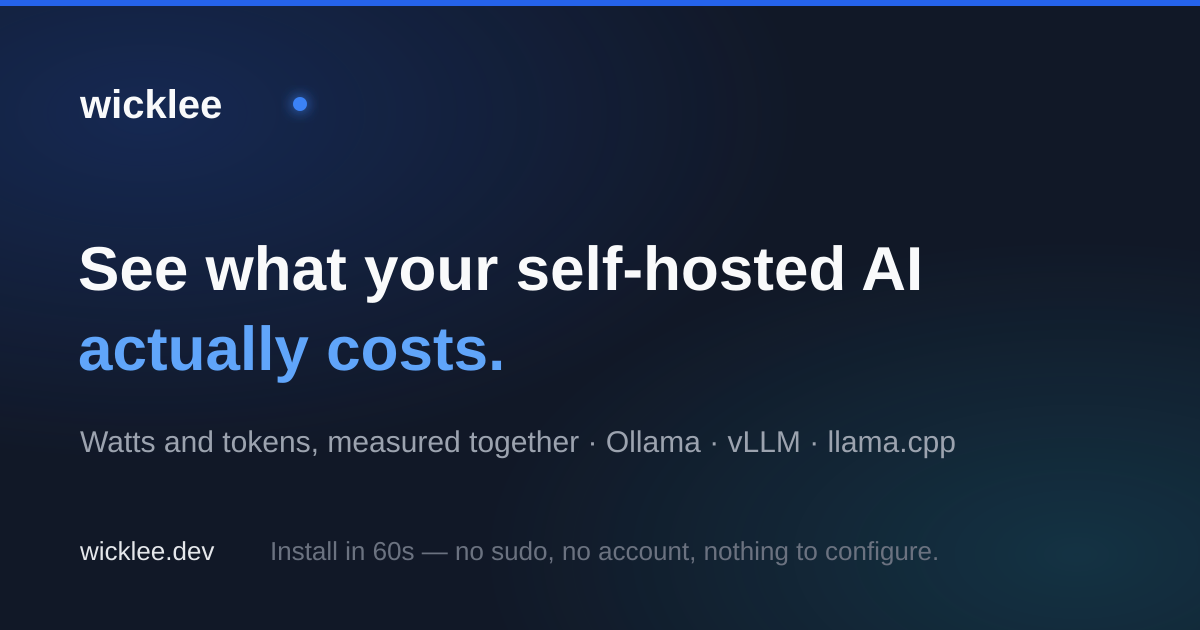
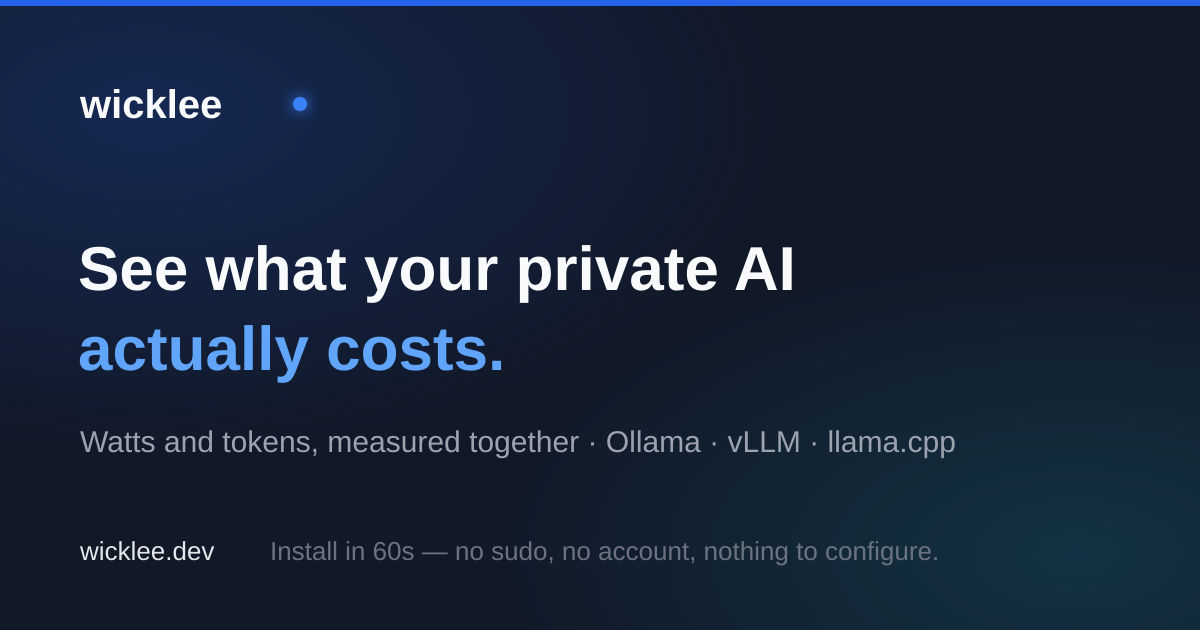
copy: "private AI" on buyer-facing surfaces; fix retired tier in the offer
Two changes, plus a guard so neither can silently regress.

1. "local AI" / "self-hosted AI" -> "private AI" for the buyer

The last pass swapped "local AI" for "self-hosted AI", which fixed the
wrong half. "Local" reads as a machine under a desk; "self-hosted"
still carries homelab connotation and was doing double duty in our own
copy. Meanwhile the major infrastructure vendors have standardised on
"private AI" for exactly this deployment model, so enterprise buyers
are already being taught the phrase by their own suppliers.

The split is now by object, which removes a real ambiguity:

  private AI   - what the customer runs: their models on their GPUs,
                 on-prem, private cloud, colo, or rented
  self-hosted  - how Wicklee itself is deployed (self-hosted control
                 plane, Enterprise). Kept in docs and install copy.
  local AI     - retained only where it is coined or community-native:
                 the "MPG for local AI" tagline, blog copy, the wes.ts
                 doc comment, and the published blog slug.

Changed: site title / og:title / twitter:title, landing eyebrow and H1,
pricing subhead, design-partner hero and framing, trust CTA, llms.txt
descriptor, the prerendered mirror, and the OG card (regenerated).

The title was missed entirely last time. Body copy changed, <title>
did not — and <title> is what Google and a Slack unfurl actually show,
so the most-seen string on the site was the one still saying "Local AI
[…]

Changed region(s): [[0.4317, 0.3921, 0.7708, 0.4825]]

diff --git a/src/utils/__tests__/pageMeta.test.ts b/src/utils/__tests__/pageMeta.test.ts
@@ -1,0 +1,71 @@
+/**
+ * The site title lives in three places that cannot import each other:
+ *
+ *   - index.html          <title>, og:title, twitter:title (static, pre-bundle)
+ *   - pageMeta.ts         DEFAULT_TITLE (what the SPA sets on route change)
+ *   - BlogListing.tsx     restores the default on unmount — now imports it
+ *
+ * index.html is plain HTML and can't import the constant, so this test is the
+ * link between them. Without it the two drift silently and only the version in
+ * index.html is ever seen by Google or a Slack unfurl — which is exactly how
+ * "Local AI inference" survived a copy sweep that changed every visible string
+ * on the page.
+ *
+ * Also guards the public tier names: the pricing page sells Community / Team /
+ * Enterprise, and a retired tier ("Pro", "Business") appearing in a public
+ * offer is a promise we can no longer honour. Those names stay legal in
+ * types.ts, where they identify grandfathered subscriptions.
+ */
+
+import { describe, it, expect } from 'vitest';
+import { readFileSync } from 'node:fs';
+import { resolve } from 'node:path';
+import { DEFAULT_TITLE, DEFAULT_DESCRIPTION, STATIC_PAGE_META } from '../pageMeta';
+
+const indexHtml = readFileSync(resolve(__dirname, '../../../index.html'), 'utf-8');
+
+/** Decode the few entities `esc()` emits, so comparison is against real text. */
+const unesc = (s: string) =>
+  s.replaceAll('&quot;', '"').replaceAll('&#39;', "'")
+   .replaceAll('&lt;', '<').replaceAll('&gt;', '>').replaceAll('&amp;', '&');
+
+const pick = (re: RegExp): string => {
+  const m = indexHtml.match(re);
+  if (!m) throw new Error(`index.html tag not found: ${re} — did the head change shape?`);
+  return unesc(m[1]);
+};
+
+describe('index.html mirrors pageMeta', () => {
+  it('<title> matches DEFAULT_TITLE', () => {
+    expect(pick(/<title>([^<]*)<\/title>/)).toBe(DEFAULT_TITLE);
+  });
+
+  it('og:title matches DEFAULT_TITLE', () => {
+    expect(pick(/<meta property="og:title" content="([^"]*)"/)).toBe(DEFAULT_TITLE);
+  });
+
+  it('twitter:title matches DEFAULT_TITLE', () => {
+    expect(pick(/<meta name="twitter:title" content="([^"]*)"/)).toBe(DEFAULT_TITLE);
+  });
+
+  it('description matches DEFAULT_DESCRIPTION', () => {
+    expect(pick(/<meta name="description" content="([^"]*)"/)).toBe(DEFAULT_DESCRIPTION);
+  });
+});
+
+describe('public copy sells only live tiers', () => {
+  const RETIRED = ['Pro tier', 'Business tier', 'Business free', 'Pro free'];
+
+  it('no retired tier is named in page metadata', () => {
+    for (const [path, meta] of Object.entries(STATIC_PAGE_META)) {
+      for (const bad of RETIRED) {
+        expect(`${meta.title} ${meta.description}`).not.toContain(bad);
+      }
+      expect(path).toBeTruthy();
+    }
+  });
+
+  it('no retired tier is named in index.html', () => {
+    for (const bad of RETIRED) expect(indexHtml).not.toContain(bad);
+  });
+});

diff --git a/index.html b/index.html
@@ -10,17 +10,17 @@
          prose — Safari skips the article scan entirely. -->
     <meta name="format-detection" content="telephone=no, address=no, email=no, date=no" />
     <meta http-equiv="Content-Security-Policy" content="default-src 'self'; script-src 'self' https://*.paddle.com https://*.profitwell.com https://clerk.wicklee.dev https://*.clerk.accounts.dev https://challenges.cloudflare.com https://static.cloudflareinsights.com; worker-src 'self' blob:; style-src 'self' https://fonts.googleapis.com https://*.paddle.com 'unsafe-inline'; font-src https://fonts.gstatic.com; connect-src 'self' ws://localhost:* ws://127.0.0.1:* http://localhost:* http://127.0.0.1:* https://*.up.railway.app https://wicklee.dev https://api.clerk.dev https://*.clerk.accounts.dev https://clerk.wicklee.dev https://challenges.cloudflare.com https://*.paddle.com https://static.cloudflareinsights.com; img-src 'self' data: https:; frame-src https://*.paddle.com https://*.clerk.accounts.dev https://clerk.wicklee.dev https://challenges.cloudflare.com;" />
-    <title>Wicklee — Local AI inference, finally observable.</title>
+    <title>Wicklee — Private AI, finally observable.</title>
     <meta name="description" content="Routing intelligence. True inference cost. Thermal state. Live, across every node. Built for Ollama and vLLM. Install in 60 seconds — nothing to configure." />
-    <meta property="og:title" content="Wicklee — Local AI inference, finally observable." />
+    <meta property="og:title" content="Wicklee — Private AI, finally observable." />
     <meta property="og:description" content="Routing intelligence. True inference cost. Thermal state. Live, across every node. Built for Ollama and vLLM. Install in 60 seconds — nothing to configure." />
-    <meta name="twitter:title" content="Wicklee — Local AI inference, finally observable." />
+    <meta name="twitter:title" content="Wicklee — Private AI, finally observable." />
     <meta name="twitter:description" content="Routing intelligence. True inference cost. Thermal state. Live, across every node. Built for Ollama and vLLM. Install in 60 seconds — nothing to configure." />
     <meta name="twitter:card" content="summary_large_image" />
     <meta property="og:image" content="https://wicklee.dev/og-image.png" />
     <meta property="og:image:width" content="1200" />
     <meta property="og:image:height" content="630" />
-    <meta property="og:image:alt" content="Wicklee — Self-hosted AI inference, fully observable. WES, the MPG for local AI. Ollama, vLLM, llama.cpp." />
+    <meta property="og:image:alt" content="Wicklee — Private AI, finally observable. WES, the MPG for local AI. Ollama, vLLM, llama.cpp." />
     <meta name="twitter:image" content="https://wicklee.dev/og-image.png" />
     <meta property="og:type" content="website" />
     <meta property="og:site_name" content="Wicklee" />

diff --git a/src/pages/DesignPartnersPage.tsx b/src/pages/DesignPartnersPage.tsx
@@ -1,7 +1,7 @@
 /**
  * DesignPartnersPage — /design-partners — GTM Rock 5.
  *
- * The offer: 3–5 companies running local/on-prem AI get Business free for a
+ * The offer: 3–5 companies running private AI get Enterprise free for a
  * year in exchange for a logo, a case study, and monthly feedback. Case
  * studies are the only advertising enterprises trust; partners also steer
  * the roadmap while the surface is still wet.
@@ -44,10 +44,10 @@ const DesignPartnersPage: React.FC<DesignPartnersPageProps> = ({ onNavigate }) =
             <Handshake className="w-3.5 h-3.5" /> 3–5 companies · applications open
           </div>
           <h1 className="text-3xl font-bold text-white leading-tight">
-            Run self-hosted AI in production?<br />Help us build your fleet's observability — Business tier free for a year.
+            Running private AI in production?<br />Help us build your fleet's observability — Enterprise tier free for a year.
           </h1>
           <p className="text-gray-400 leading-relaxed max-w-2xl">
-            Wicklee is the observability layer for self-hosted AI inference — on-prem, private cloud, or colo: hardware telemetry
+            Wicklee is the observability layer for private AI inference — on-prem, private cloud, or colo: hardware telemetry
             and token throughput in one store, so you can see efficiency, cost, and reliability the way
             you see them for the rest of your infrastructure. We're taking on a small number of design
             partners whose fleets and requirements will steer the roadmap.

diff --git a/src/utils/pageMeta.ts b/src/utils/pageMeta.ts
@@ -17,7 +17,7 @@ export const SITE_NAME   = 'Wicklee';
 /** Social/link-preview card (1200×630). Regenerate via scripts/gen-og-image.mjs. */
 export const OG_IMAGE_URL = `${SITE_ORIGIN}/og-image.png`;
 
-export const DEFAULT_TITLE       = 'Wicklee — Local AI inference, finally observable.';
+export const DEFAULT_TITLE       = 'Wicklee — Private AI, finally observable.';
 export const DEFAULT_DESCRIPTION =
   'Routing intelligence. True inference cost. Thermal state. Live, across every node. ' +
   'Built for Ollama and vLLM. Install in 60 seconds — nothing to configure.';
@@ -120,7 +120,7 @@ export const STATIC_PAGE_META: Record<string, PageMeta> = {
   },
   '/design-partners': {
     title:       'Design Partner Program — Wicklee',
-    description: 'Running self-hosted AI in production? A small number of design partners get ' +
+    description: 'Running private AI in production? A small number of design partners get ' +
                  'the Enterprise tier free for 12 months — SSO, RBAC, audit export, SLOs and cost ' +
                  'governance on your real fleet — for a logo, a case study, and monthly feedback.',
     path:        '/design-partners',

diff --git a/src/pages/TrustPage.tsx b/src/pages/TrustPage.tsx
@@ -189,11 +189,11 @@ const TrustPage: React.FC<TrustPageProps> = ({ onNavigate }) => {
           <p className="text-sm text-gray-400 leading-relaxed">
             Security questionnaires, architecture review calls, or a self-hosted evaluation license:{' '}
             <a href={mailto(CONTACT_EMAIL)} className="text-emerald-400 underline">{CONTACT_EMAIL}</a>.
-            Running self-hosted AI in a regulated environment? Our{' '}
+            Running private AI in a regulated environment? Our{' '}
             <button onClick={() => onNavigate('/design-partners')} className="text-emerald-400 underline">
               design-partner program
             </button>{' '}
-            gives a small number of companies Business free for a year.
+            gives a small number of companies Enterprise free for a year.
           </p>
         </div>
       </div>

diff --git a/src/components/LandingPage.tsx b/src/components/LandingPage.tsx
@@ -126,10 +126,10 @@ const LandingPage: React.FC<LandingPageProps> = ({ onSignIn, onSignUp, onNavigat
             visitor scanning for the category saw the word attached to everyone
             else. Category here, outcome in the H1. */}
         <p className="text-[11px] sm:text-xs font-bold uppercase tracking-[0.2em] text-cyan-400/80 mb-5">
-          Hardware-aware observability for self-hosted AI fleets
+          Hardware-aware observability for private AI fleets
         </p>
         <h1 className="text-4xl sm:text-6xl md:text-7xl font-extrabold tracking-tight text-white mb-6 leading-[1.1]">
-          See what your self-hosted AI{' '}
+          See what your private AI{' '}
           <span className="text-transparent bg-clip-text bg-gradient-to-r from-blue-600 to-cyan-400">
             actually costs.
           </span>

diff --git a/src/components/BlogListing.tsx b/src/components/BlogListing.tsx
@@ -3,6 +3,7 @@ import Logo from './Logo';
 import {
   parseFrontmatter, slugToTitle, stripMarkdown, formatDate,
 } from '../utils/parseFrontmatter';
+import { DEFAULT_TITLE } from '../utils/pageMeta';
 
 interface PostCard {
   slug: string;
@@ -25,7 +26,7 @@ const BlogListing: React.FC<BlogListingProps> = ({ onNavigate, onSignIn, onSignU
 
   useEffect(() => {
     document.title = 'Blog — Wicklee';
-    return () => { document.title = 'Wicklee — Local AI inference, finally observable.'; };
+    return () => { document.title = DEFAULT_TITLE; };
   }, []);
 
   useEffect(() => {

diff --git a/src/components/PricingPage.tsx b/src/components/PricingPage.tsx
@@ -206,7 +206,7 @@ const PricingPage: React.FC<PricingPageProps> = ({
             Pricing
           </h1>
           <p className="text-gray-500 max-w-xl mx-auto text-sm leading-relaxed">
-            Hardware-first observability for self-hosted AI fleets. Every tier includes WES
+            Hardware-first observability for private AI fleets. Every tier includes WES
             diagnostics, real-time telemetry, and the local API — the cloud relay is
             always opt-in.
           </p>
